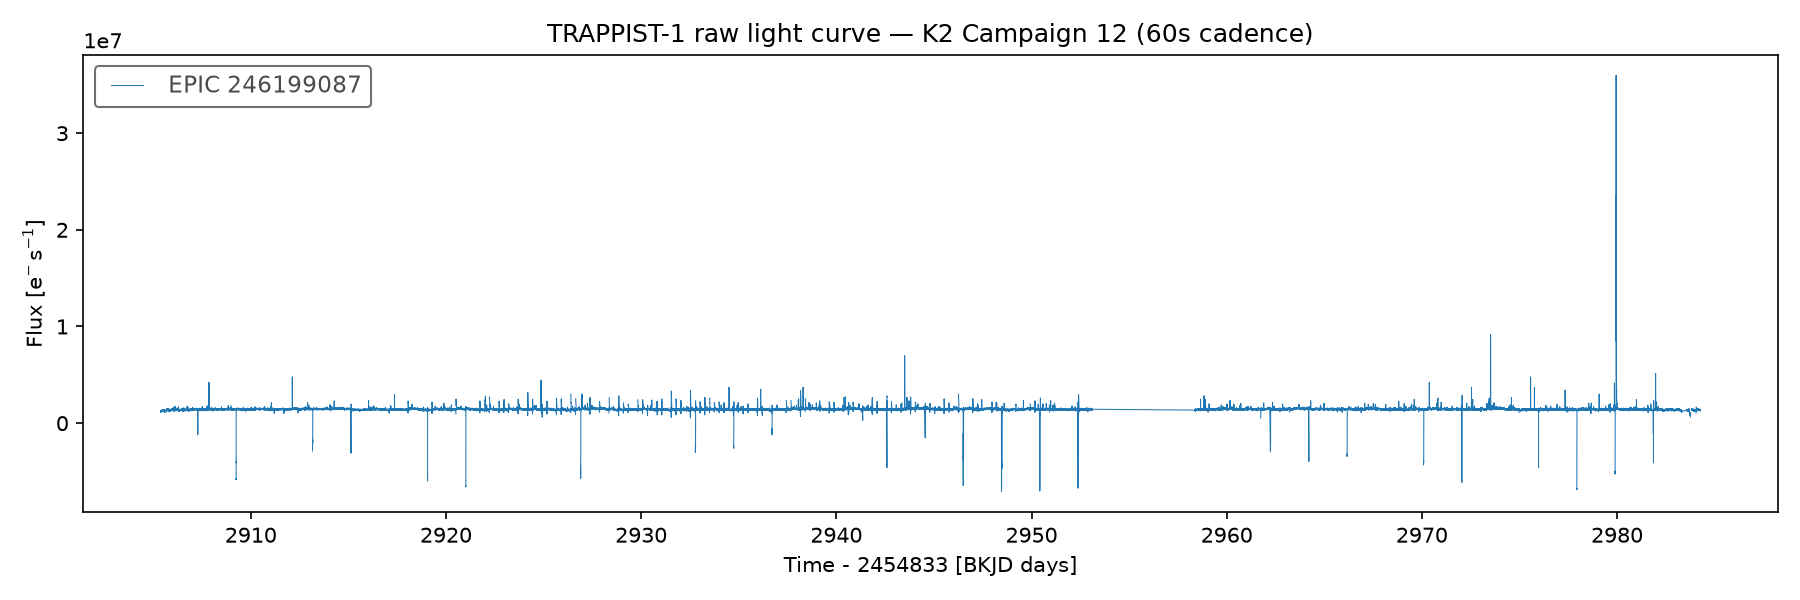
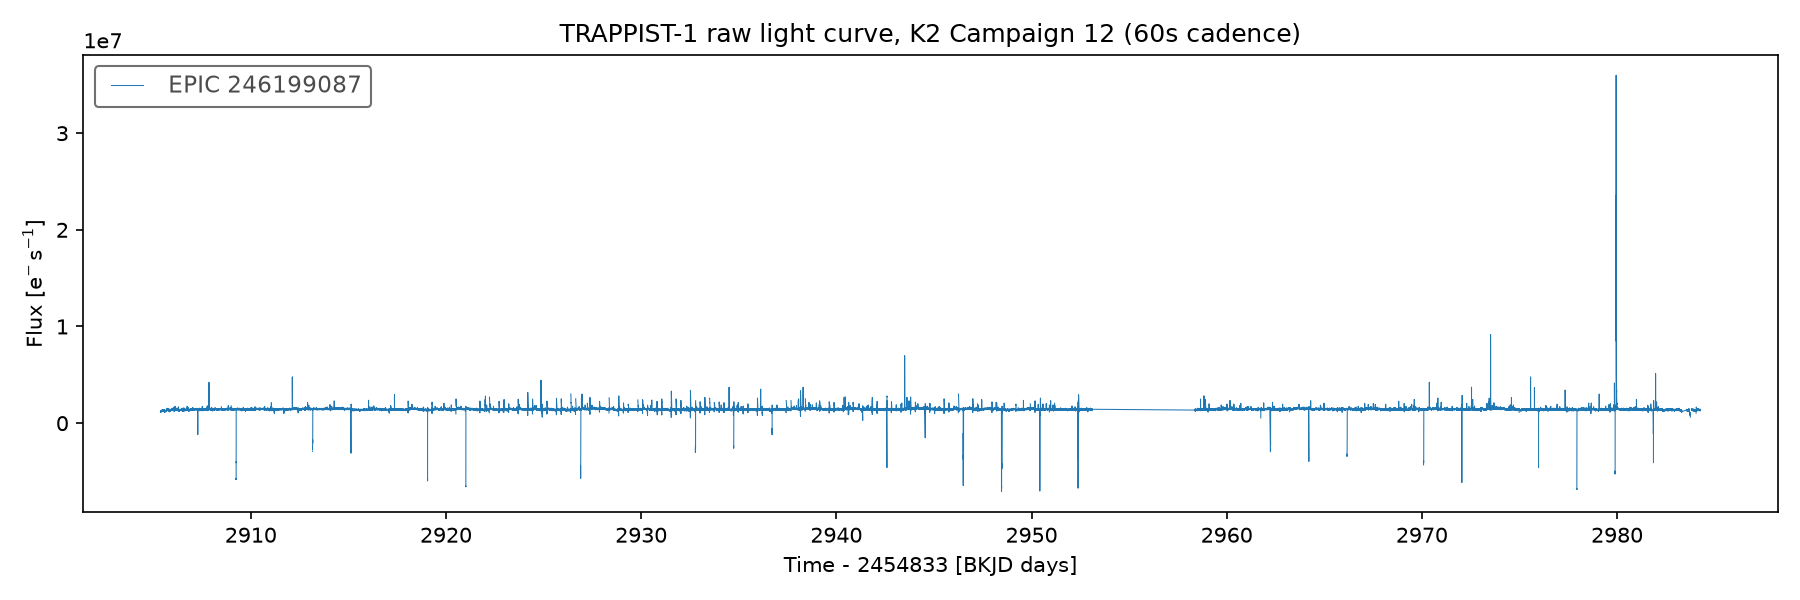
Remove em dashes from README and plot title

Changed region(s): [[0.3111, 0.03, 0.7467, 0.09]]

diff --git a/notebooks/phase1_trappist1_pull.py b/notebooks/phase1_trappist1_pull.py
@@ -24,7 +24,7 @@ os.makedirs(out_dir, exist_ok=True)
 
 fig, ax = plt.subplots(figsize=(12, 4))
 lc.plot(ax=ax)
-ax.set_title("TRAPPIST-1 raw light curve — K2 Campaign 12 (60s cadence)")
+ax.set_title("TRAPPIST-1 raw light curve, K2 Campaign 12 (60s cadence)")
 fig.tight_layout()
 out_path = os.path.join(out_dir, "trappist1_raw.png")
 fig.savefig(out_path, dpi=150)

diff --git a/README.md b/README.md
@@ -1,6 +1,6 @@
 # exoplanet-transit-detection (ExoDetect)
 
-Finding real planets in raw NASA light curves — not the pre-cleaned Kaggle set.
+Finding real planets in raw NASA light curves, not the pre-cleaned Kaggle set.
 
 Pulls raw light curves directly from the MAST archive via [`lightkurve`](https://docs.lightkurve.org/), detrends them,
 runs a classical Box Least Squares (BLS) transit search, validates recovered orbital periods against published values
@@ -17,10 +17,10 @@ Work in progress. See `docs/plan.md` for the full project plan and build order.
 
 ## Structure
 
-- `src/exodetect/` — pipeline package (data retrieval, detrending, BLS, classifier, physical characterization)
-- `notebooks/` — exploratory and validation notebooks
-- `docs/` — plan and write-up
-- `tests/` — unit tests
+- `src/exodetect/`: pipeline package (data retrieval, detrending, BLS, classifier, physical characterization)
+- `notebooks/`: exploratory and validation notebooks
+- `docs/`: plan and write-up
+- `tests/`: unit tests
 
 ## Citations
 
